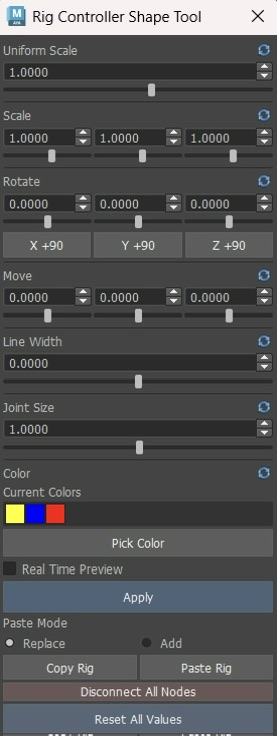
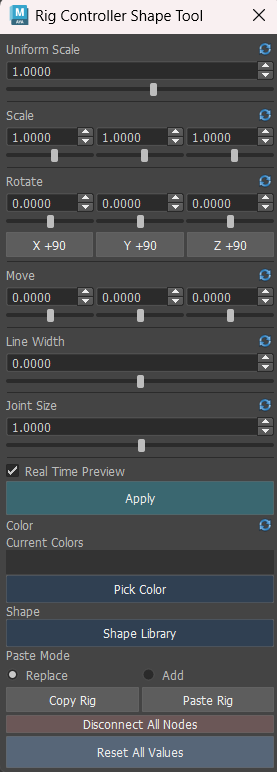
feat: improve controller preview transforms

diff --git a/features/__init__.py b/features/__init__.py
@@ -1,11 +1,23 @@
 """Feature implementations exposed to the composition root."""
 
-from .color import ColorFeature
-from .controls import ControlsFeature
-from .disconnect import DisconnectFeature
-from .preview import PreviewFeature
-from .copy_paste import CopyPasteFeature
-from .transform import TransformFeature
+from importlib import import_module
 
-__all__ = ["ColorFeature", "ControlsFeature", "DisconnectFeature", "PreviewFeature",
-           "CopyPasteFeature", "TransformFeature"]
+
+_FEATURE_MODULES = {
+    "ColorFeature": "color",
+    "ControlsFeature": "controls",
+    "DisconnectFeature": "disconnect",
+    "PreviewFeature": "preview",
+    "CopyPasteFeature": "copy_paste",
+    "TransformFeature": "transform",
+}
+
+__all__ = list(_FEATURE_MODULES)
+
+
+def __getattr__(name: str):
+    if name not in _FEATURE_MODULES:
+        raise AttributeError(f"module {__name__!r} has no attribute {name!r}")
+    feature = getattr(import_module(f".{_FEATURE_MODULES[name]}", __name__), name)
+    globals()[name] = feature
+    return feature

diff --git a/features/transform.py b/features/transform.py
@@ -3,12 +3,15 @@
 from __future__ import annotations
 
 from collections.abc import Callable, Sequence
+from typing import TYPE_CHECKING
 
 from ..core.domain import TransformValues
 from ..core.errors import InvalidSelectionError
 from ..core.state import ToolState
 from ..core.transform_math import isolated_transform_values
-from ..services import MayaSceneService, SelectionService
+
+if TYPE_CHECKING:
+    from ..services import MayaSceneService, SelectionService
 
 
 class TransformFeature:

diff --git a/features/preview.py b/features/preview.py
@@ -4,9 +4,12 @@ from __future__ import annotations
 
 from collections.abc import Callable
 from dataclasses import replace
+from typing import TYPE_CHECKING
 
 from ..core.state import ToolState
-from ..services import MayaSceneService, SelectionService
+
+if TYPE_CHECKING:
+    from ..services import MayaSceneService, SelectionService
 
 
 class PreviewFeature:

diff --git a/README.md b/README.md
@@ -1,4 +1,5 @@
-# Rig Controller Shape Tool
+# Rig Controller Shape Tool ![CI](https://github.com/Yuzuki-Midoshima/Rig-Ctrl-Shape-Tool/actions/workflows/ci.yml/badge.svg) ![Maya](https://img.shields.io/badge/Autodesk%20Maya-2026-0696D7) ![Python](https://img.shields.io/badge/Python-3.x-3776AB)
+
 
 <img src="docs/images/rig-controller-shape-tool.png" alt="Rig Controller Shape Tool window" width="276">
 
